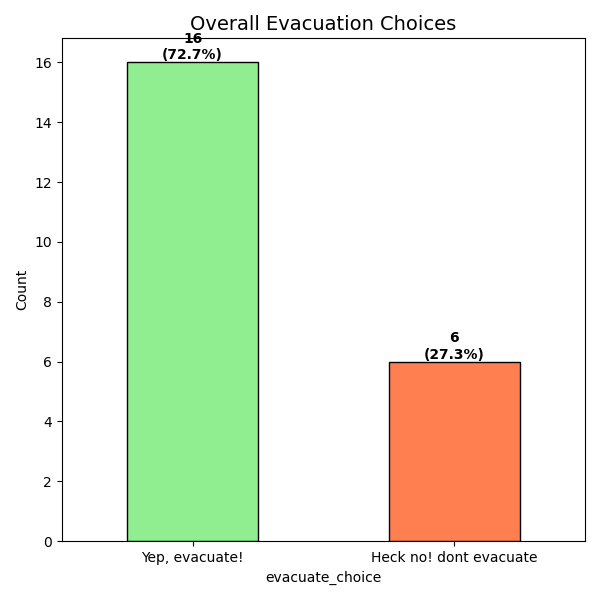
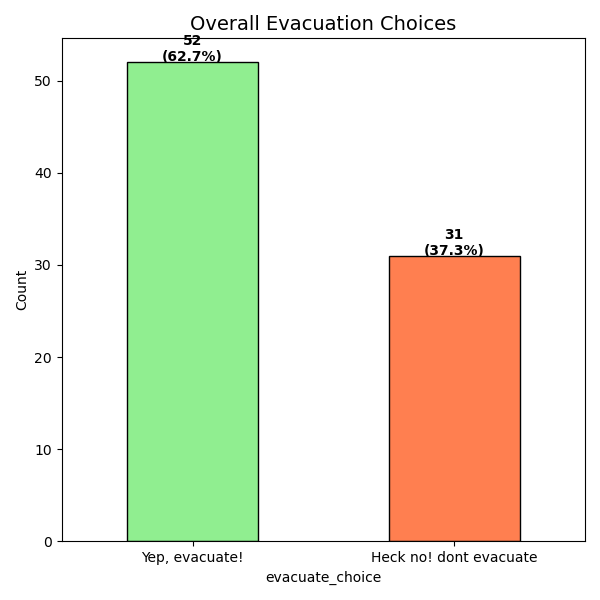
bunch of messy stuff

diff --git a/docs/shelter.html b/docs/shelter.html
@@ -1,0 +1,68 @@
+
+    <html>
+    <head>
+        <title>Storm Shelter Analysis</title>
+        <style>
+            body { font-family: 'Segoe UI', Tahoma, Geneva, Verdana, sans-serif; background: #f0f2f5; padding: 20px; }
+            .container { max-width: 1000px; margin: auto; background: white; padding: 30px; border-radius: 12px; box-shadow: 0 4px 20px rgba(0,0,0,0.08); }
+            h1, h2 { color: #1a2a6c; }
+            .stoplights { display: flex; gap: 15px; margin-bottom: 30px; }
+            .card-stat { flex: 1; padding: 20px; border-radius: 10px; color: white; text-align: center; }
+            .bg-red { background: #e74c3c; } .bg-orange { background: #f39c12; } .bg-green { background: #27ae60; }
+            .card-stat h3 { margin: 0; font-size: 0.85em; text-transform: uppercase; opacity: 0.9; }
+            .card-stat div { font-size: 1.8em; font-weight: bold; margin-top: 8px; }
+            table { width: 100%; border-collapse: collapse; margin-top: 20px; }
+            th, td { padding: 12px; border-bottom: 1px solid #eee; text-align: left; }
+            th { background: #f8f9fa; color: #555; }
+            .highlight { color: #e74c3c; font-weight: bold; }
+        </style>
+    </head>
+    <body>
+        <div class="container">
+            <h1>Shelter Operations Dashboard</h1>
+            <p><strong>Timeline:</strong> Latest Responses | All Time to Now</p>
+
+            <div class="stoplights">
+                <div class="card-stat bg-red">
+                    <h3>Unmet Needs</h3>
+                    <div>Medical facilities, Senior transportation</div>
+                </div>
+                <div class="card-stat bg-orange">
+                    <h3>Residents Require Travel</h3>
+                    <div>4</div>
+                </div>
+                <div class="card-stat bg-green">
+                    <h3>Residents Served at Location</h3>
+                    <div>3</div>
+                </div>
+            </div>
+
+            <div style="margin-bottom: 30px; text-align: center;">
[1 lines of base64/hex data omitted]
+            </div>
+
+            <h2>Service Gap Analysis</h2>
+            <table>
+                <thead>
+                    <tr><th>Service Type</th><th>Total Need</th><th>Total Offered</th><th>Status</th></tr>
+                </thead>
+                <tbody>
+                    <tr><td>Livestock facilities</td><td>1</td><td>2</td><td>Sufficient</td></tr><tr><td>Medical facilities</td><td>4</td><td>1</td><td><span class='highlight'>Under-supplied</span></td></tr><tr><td>Senior transportation</td><td>2</td><td>1</td><td><span class='highlight'>Under-supplied</span></td></tr>
+                </tbody>
+            </table>
+
+            <h2>Regional Breakdown</h2>
+            <table>
+                <thead>
+                    <tr><th>Region Name</th><th>Population</th><th>Shelters Available</th><th>Hub Status</th></tr>
+                </thead>
+                <tbody>
+                    <tr><td>Central Elder Center</td><td>3</td><td>1</td><td>N/A</td></tr><tr><td>Northern Community Center</td><td>1</td><td>2</td><td>N/A</td></tr><tr><td>South Boys and Girls Club</td><td>3</td><td>1</td><td><b>Active Hub</b></td></tr>
+                </tbody>
+            </table>
+
+            
+        </div>
+    </body>
+    </html>
+    

diff --git a/docs/evacuation_results.html b/docs/evacuation_results.html
@@ -5,7 +5,7 @@
     </head>
     <body>
         <div class="box">
-            <h1>Hurricane Evacuation Report (Today)</h1>
+            <h1>Hurricane Evacuation Report</h1>
             <hr><h2>1. Player Distribution</h2><img src="player_breakdown.png">
             <hr><h2>2. Overall Evacuation</h2><img src="evacuation_overall.png">
             <hr><h2>3. Detailed Breakdown</h2><img src="evacuation_by_type.png">

diff --git a/docs/epilogue.md b/docs/epilogue.md
@@ -1,0 +1,24 @@
+#Epilogue
+
+This slide will be updated following test run feedback!
+
+There are 3 general scenarios we are considering:
+
+	1 Sensitive action communication-eg Evacuate
+	2 Coordination of actions, resources, and infrastructure-eg Shelter
+	3 
+
+
+
+## Contact info:
+Daniel Osgood, PhD
+Financial Instruments Division Lead
[phone redacted]
[email redacted] 
+
+National Center for Disaster Preparedness, IRI Affiliate
+
+475 Riverside Drive, Suite 820
+New York, NY 10115-0095
[email redacted]  https://ncdp.columbia.edu/fi
+